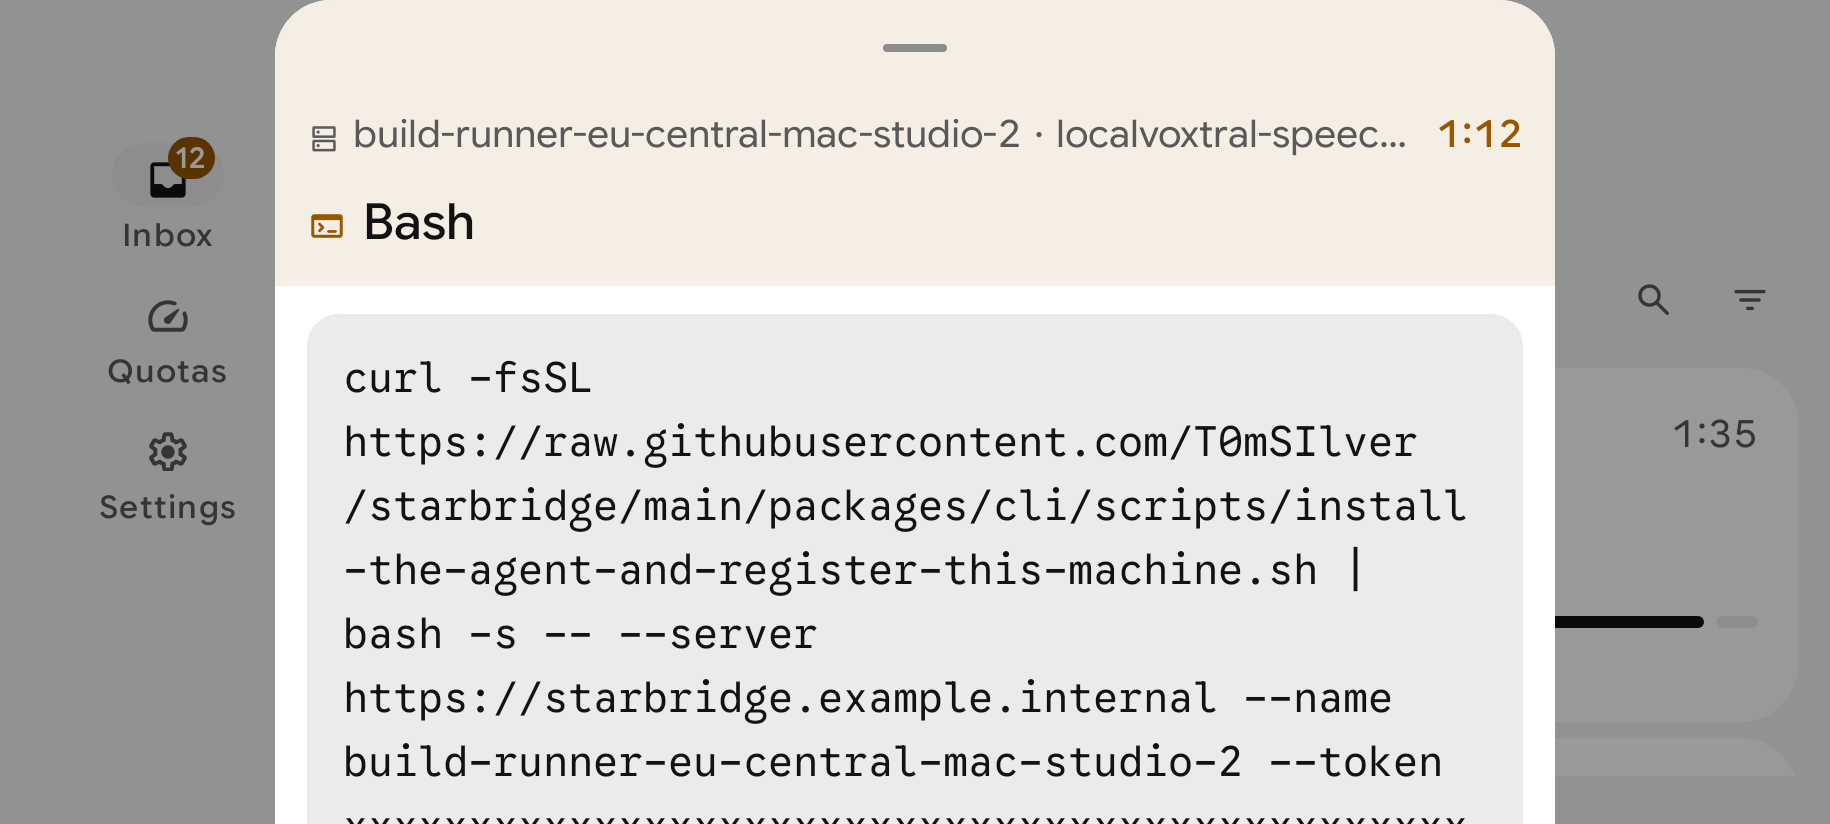
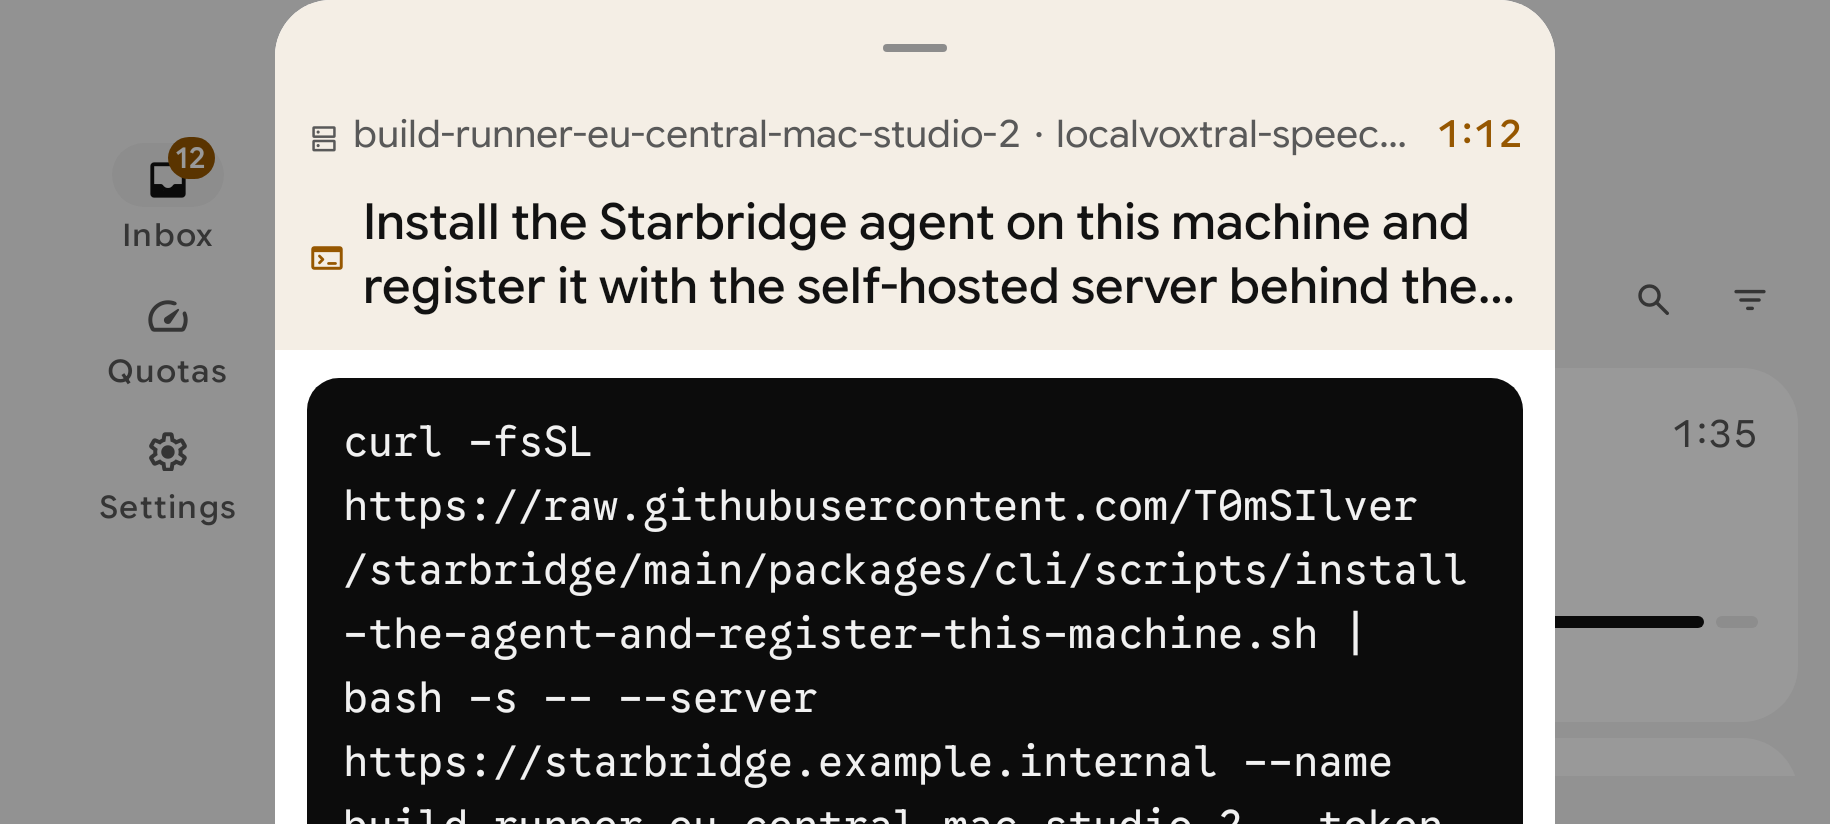
Android: Find matches a prompt's description and shows it; tests follow the new title (#805)

diff --git a/android/app/src/main/kotlin/dev/starbridge/app/ui/inbox/Find.kt b/android/app/src/main/kotlin/dev/starbridge/app/ui/inbox/Find.kt
@@ -97,7 +97,7 @@ internal fun hitStyle() = SpanStyle(fontWeight = FontWeight.SemiBold, background
 
 /** What Find matches on, as the web's: the machine, the repo, the agent's words and the session. */
 private fun Decision.texts() = listOf(source.machine, source.project, question, context, source.title)
-private fun Prompt.texts() = listOf(source.machine, source.project, tool, summary, source.title)
+private fun Prompt.texts() = listOf(source.machine, source.project, tool, description, summary, source.title)
 
 /**
  * Find (#244): Material 3's search view over the inbox. The open items that
@@ -198,7 +198,7 @@ private fun LazyListScope.results(key: String, name: String, countColor: Color, 
                 clock = !closed && it.waiting,
             ) { open(it) }
             is Prompt -> HistoryRow(
-                it.source, it.summary, true, if (closed) closedHow(it) else it.tool, shape, words,
+                it.source, it.summary, true, if (closed) closedHow(it) else it.headline, shape, words,
                 ground = if (closed) MaterialTheme.colorScheme.surfaceContainer else promptGround(),
                 time = if (closed) "" else waited(it.createdAt, now),
                 clock = !closed,

diff --git a/android/app/src/test/kotlin/dev/starbridge/app/NotifierTest.kt b/android/app/src/test/kotlin/dev/starbridge/app/NotifierTest.kt
@@ -39,11 +39,14 @@ class NotifierTest {
     private fun posted(): Notification = shadowOf(context.getSystemService(Context.NOTIFICATION_SERVICE) as NotificationManager).allNotifications.single()
 
     @Test
-    fun aPromptShowsOnlyItsCommandAndKeepsItsButtonsOnTheLockScreen() {
+    fun aPromptLeadsWithItsDescriptionAndTheLockScreenKeepsOnlyTheTool() {
         val p = fake.prompts.first()
         notifier.prompt(p)
         val n = posted()
-        assertEquals(p.summary, n.extras.getCharSequence(Notification.EXTRA_BIG_TEXT).toString())
+        // The agent's description titles the prompt; the lock screen shows the tool alone (#805).
+        assertEquals(p.description, n.extras.getCharSequence(Notification.EXTRA_TITLE).toString())
+        assertEquals(p.summary, n.extras.getCharSequence(Notification.EXTRA_TEXT).toString())
+        assertEquals(p.tool, n.publicVersion.extras.getCharSequence(Notification.EXTRA_TITLE).toString())
         assertFalse(n.allowSystemGeneratedContextualActions)
         assertEquals(listOf("Allow", "Deny"), n.publicVersion.actions.map { it.title.toString() })
         assertEquals(p.id, shadowOf(n.contentIntent).savedIntent.getStringExtra(MainActivity.EXTRA_PROMPT))
